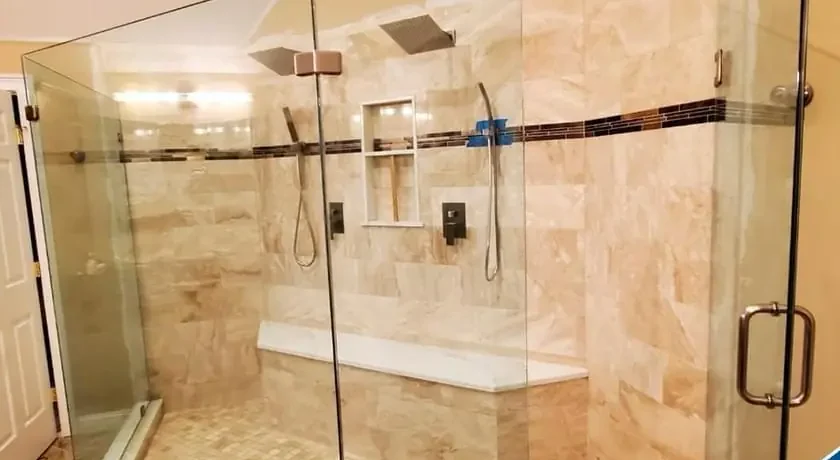
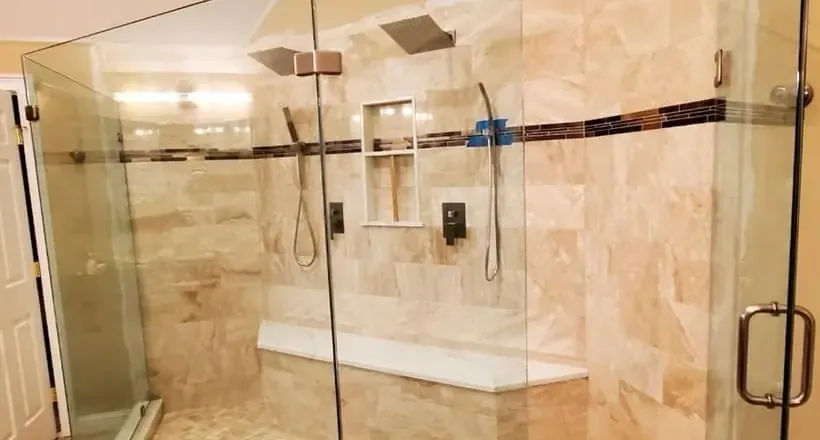
Final verification fixes: whole estimate form visible after a jump on short screens, phone-friendly tables, cleaner bathroom crop
- "Free estimate" links (header, phone bar, hero and body anchors, and arriving at /contact#estimate) scroll so
  the whole form, submit button included, sits between the header and the phone's bottom bar, also at 390x664,
  360x640 and on a 1366x768 laptop
- /service-areas town tables fit their cards at 320px; distances wrap instead of being cut off
- Blog tables with 3+ columns become labelled cards on phones (no sideways scrolling)
- Bathroom photo 05 re-cropped from the original to drop the last corner of the old banner
- Bathroom alt text matches the photos (freestanding tub, wall-mounted head); removed the outdated "logo and phone" note
- Salem, NH deck: general permit rule instead of an undocumented job-specific claim
- Hub town directory counts read "60 towns" (toggle icon drawn in CSS); owner page title keeps the brand
- Check scripts fail on an empty build and catch more licensing phrasings

Claude-Session: https://claude.ai/code/session_01Hs2iL7Ppt9jmZR8R8EwH7x

diff --git a/components/chrome-client.tsx b/components/chrome-client.tsx
@@ -23,6 +23,26 @@ function estimateTarget(): HTMLElement | null {
   return el && !/^H[1-6]$/.test(el.tagName) ? el : null;
 }
 
+/** Scrolls so the whole estimate form is on screen. Normally the card top lands under the sticky header
+ *  (html scroll-padding-top). When the card is taller than the space left between the header and the bottom
+ *  edge or the phone's fixed call/estimate bar (short viewports such as 390×664 or a 1366×768 laptop's 657px),
+ *  the form's bottom is lined up just above that bar instead, so the submit button is never covered, while
+ *  the form's top still stays below the header. */
+function jumpToEstimate(el: HTMLElement, animate = true) {
+  const pad = parseFloat(getComputedStyle(document.documentElement).scrollPaddingTop) || 0;
+  const bar = document.querySelector<HTMLElement>(".mobile-cta-bar");
+  const barTop = bar && getComputedStyle(bar).display !== "none" ? bar.getBoundingClientRect().top : window.innerHeight;
+  const bottom = Math.min(window.innerHeight, barTop) - 8;
+  const card = el.getBoundingClientRect();
+  const form = (el.querySelector("iframe") ?? el).getBoundingClientRect();
+  let delta = card.top - pad;
+  if (form.bottom - delta > bottom) delta = Math.min(form.bottom - bottom, form.top - pad);
+  const smooth = animate && !window.matchMedia("(prefers-reduced-motion: reduce)").matches;
+  window.scrollTo({ top: window.scrollY + delta, behavior: smooth ? "smooth" : "instant" });
+  const hash = `#${el.id || "estimate"}`;
+  if (location.hash !== hash) history.replaceState(null, "", hash);
+}
+
 const isCurrent = (pathname: string, href: string) => (href === "/" ? pathname === "/" : pathname === href || pathname.startsWith(`${href}/`));
 
 export function HeaderClient({ nav, services, phone, phoneHref, brand }: {
@@ -177,15 +197,40 @@ export function EstimateLink({ className = "", children, onDone }: { className?:
         const el = estimateTarget();
         if (!el) return;
         e.preventDefault();
-        const smooth = !window.matchMedia("(prefers-reduced-motion: reduce)").matches;
-        el.scrollIntoView({ behavior: smooth ? "smooth" : "auto", block: "start" });
-        const hash = `#${el.id || "estimate"}`;
-        if (location.hash !== hash) history.replaceState(null, "", hash);
+        jumpToEstimate(el);
       }}
     >
       {children}
     </Link>
   );
+}
+
+/** Plain in-page "#estimate" links (hero and body CTAs on home, hubs and town pages) get the same
+ *  fit-the-whole-form scroll as EstimateLink. Arriving with #estimate in the URL (e.g. /contact#estimate
+ *  from a page without a form) re-aligns once the page has laid out. Modifier-clicks are left alone. */
+export function EstimateJumps() {
+  const pathname = usePathname();
+  useEffect(() => {
+    const onClick = (e: MouseEvent) => {
+      if (e.defaultPrevented || e.button !== 0 || e.metaKey || e.ctrlKey || e.shiftKey || e.altKey) return;
+      if (!(e.target instanceof Element) || !e.target.closest('a[href="#estimate"]')) return;
+      const el = estimateTarget();
+      if (!el) return;
+      e.preventDefault();
+      jumpToEstimate(el);
+    };
+    document.addEventListener("click", onClick);
+    return () => document.removeEventListener("click", onClick);
+  }, []);
+  useEffect(() => {
+    if (location.hash !== "#estimate") return;
+    const t = window.setTimeout(() => {
+      const el = estimateTarget();
+      if (el) jumpToEstimate(el, false);
+    }, 80);
+    return () => window.clearTimeout(t);
+  }, [pathname]);
+  return null;
 }
 
 /** Desktop floating call button. Hidden near the top of the page and whenever an estimate form,

diff --git a/lib/projects.ts b/lib/projects.ts
@@ -137,20 +137,19 @@ export const projects: Project[] = [
     scopeHeading: "What the photos show",
     scope: [
       "Walk-in showers with large-format marble-look wall tile and frameless glass",
-      "Two neo-angle (five-sided) glass showers: one with brass fixtures beside a corner tub, one in beige stone-look tile with a built-in bench",
+      "Two neo-angle (five-sided) glass showers: one with brass fixtures beside a freestanding tub, one in beige stone-look tile with a built-in bench",
       "A tub-shower with white subway tile, a dark mosaic band and a hinged glass panel",
       "Recessed shower niches, mosaic-tile shower floors and ceiling or wall-mounted rain shower heads",
     ],
     notes: [
       "These photos come from more than one bathroom remodel. The towns are not listed, so this page does not name one.",
-      "Each photo carries our logo and phone number, added when it was first shared online.",
     ],
     stages: [{ id: "finished", label: "Finished bathrooms" }],
     photos: [
       { src: BATH(1), stage: "finished", alt: "Walk-in shower with large-format marble-look wall tile, a recessed niche, a rain shower head and frameless glass", caption: "Walk-in shower in marble-look tile with a recessed niche and frameless glass." },
       { src: BATH(2), stage: "finished", featured: "Bathrooms", alt: "Bathtub with white subway tile walls, a dark mosaic accent band, a recessed niche and a hinged glass panel", caption: "Tub-shower with white subway tile, a dark mosaic band and a hinged glass panel." },
       { src: BATH(3), stage: "finished", featured: "Bathrooms", alt: "Walk-in shower with marble-look walls, a hexagon mosaic floor, a window and a frameless glass door, beside the toilet", caption: "Walk-in shower with a hexagon mosaic floor and a frameless glass door." },
-      { src: BATH(4), stage: "finished", featured: "Bathrooms", alt: "Neo-angle frameless glass shower with brass fixtures and a ceiling rain head, next to a corner tub and a brass towel rack", caption: "Neo-angle glass shower with brass fixtures, beside a corner tub." },
+      { src: BATH(4), stage: "finished", featured: "Bathrooms", alt: "Neo-angle frameless glass shower with brass fixtures, a wall-mounted shower head and a hand shower on a slide bar, beside a freestanding tub and a brass towel warmer", caption: "Neo-angle glass shower with brass fixtures, beside a freestanding tub." },
       { src: BATH(5), stage: "finished", alt: "Neo-angle glass shower in beige stone-look tile with a built-in bench, a recessed niche and a mosaic accent band", caption: "Neo-angle shower in beige stone-look tile with a built-in bench." },
     ],
     videos: [], // the 12-second clip was a slideshow of these same photos (audit 05 PG-C3) — not shown

diff --git a/lib/posts.ts b/lib/posts.ts
@@ -1128,7 +1128,7 @@ export const posts: Post[] = [
       },
       {
         id: "nh", h: "How do permits work in New Hampshire?", blocks: [
-          { p: "New Hampshire has no statewide contractor license. Building permits come from each town's building department under the state building code, electricians and plumbers are licensed by the state, and the federal EPA renovation rule governs lead-safe work on pre-1978 homes. Requirements and fees vary by town, so check with the local building department; for example, our [deck work in Salem, NH](/services/decks/salem-nh) goes through Salem's process." },
+          { p: "New Hampshire has no statewide contractor license. Building permits come from each town's building department under the state building code, electricians and plumbers are licensed by the state, and the federal EPA renovation rule governs lead-safe work on pre-1978 homes. Requirements and fees vary by town, so check with the town's building department." },
         ],
       },
     ],
@@ -1312,7 +1312,7 @@ export const posts: Post[] = [
       },
       {
         id: "example", h: "What did our Salem, NH pool deck involve?", blocks: [
-          { p: "The deck at the top of this guide wraps an above-ground pool in Salem, New Hampshire. The photos on the [project page](/projects/pool-deck-salem-nh) show pressure-treated joists framed around the pool, gray decking angled to follow the pool's edge, white railings and stairs. That project is in New Hampshire, where the permit comes from the town's building department; see our [deck work in Salem, NH](/services/decks/salem-nh)." },
+          { p: "The deck at the top of this guide wraps an above-ground pool in Salem, New Hampshire. The photos on the [project page](/projects/pool-deck-salem-nh) show pressure-treated joists framed around the pool, gray decking angled to follow the pool's edge, white railings and stairs. In New Hampshire, deck permits come from each town's building department; see our [deck work in Salem, NH](/services/decks/salem-nh)." },
           { p: "In Massachusetts we build decks from our base in [Northborough](/services/decks/northborough) and across our service area. A Northborough client shared this about their deck and small addition:" },
           { testimonial: "Priya S." },
           { p: "See our [deck design and construction service](/services/decks) for what we build." },

diff --git a/lib/services.ts b/lib/services.ts
@@ -77,7 +77,7 @@ const P = {
   bath01: { src: BATH(1), ...BATHS, stage: "finished", alt: "Walk-in shower with large marble-look wall tile, a frameless glass panel, a built-in niche and a window", caption: "Walk-in shower with marble-look tile and frameless glass" },
   bath02: { src: BATH(2), ...BATHS, stage: "finished", alt: "Bathtub with a fixed glass panel, white subway tile, a mosaic accent band and a tiled niche", caption: "Tub with a glass panel and subway tile with a mosaic accent band" },
   bath03: { src: BATH(3), ...BATHS, stage: "finished", alt: "Walk-in shower with marble-look tile walls, a hexagon mosaic floor and a hinged glass door, next to a toilet", caption: "Shower with marble-look walls and a hexagon mosaic floor" },
-  bath04: { src: BATH(4), ...BATHS, stage: "finished", alt: "Corner glass shower with brass fixtures next to a corner tub and a brass towel rail", caption: "Corner glass shower with brass fixtures beside a soaking tub" },
+  bath04: { src: BATH(4), ...BATHS, stage: "finished", alt: "Corner glass shower with brass fixtures next to a freestanding tub and a brass towel warmer", caption: "Corner glass shower with brass fixtures beside a soaking tub" },
   sal01: { src: SAL(1), ...SALEM, stage: "progress", alt: "Corner of a deck with gray decking and a fascia board over the pressure-treated frame, beside an above-ground pool", caption: "Decking and fascia going on over the pressure-treated frame" },
   sal02: { src: SAL(2), ...SALEM, stage: "finished", alt: "Deck with gray decking, a contrasting border and white railings wrapped around an above-ground pool, on a pressure-treated frame", caption: "Gray decking and white railings wrapped around the above-ground pool" },
   sal03: { src: SAL(3), ...SALEM, stage: "progress", alt: "Pressure-treated posts and beams supporting a deck frame beside an above-ground pool", caption: "Posts and beams supporting the deck frame beside the pool" },

diff --git a/app/services/[slug]/page.tsx b/app/services/[slug]/page.tsx
@@ -186,8 +186,8 @@ export default async function ServiceHub({ params }: { params: Promise<{ slug: s
           </div>
           {/* Estimate contract: id="estimate" + data-estimate-form on the section that wraps <LeadForm />; no scroll-mt-*
               (html scroll-padding-top already clears the sticky header, V5.2); not sticky, it sits in the hero. The card
-              header is compact (one-line note) so the whole form fits after a "Free estimate" jump: 104px scroll-padding
-              + ~80px card header + 473px form ≤ 657px at 1366×768 and ≤ 664px at 390×664. */}
+              header is compact (one-line note); on viewports too short for the whole card, the "Free estimate" jump
+              (jumpToEstimate in chrome-client.tsx) lines the form's bottom up above the phone's bottom bar instead. */}
           <section id="estimate" data-estimate-form aria-labelledby="estimate-h" className="rounded-2xl bg-white text-ink p-4 sm:p-5 lg:p-4 shadow-card ring-1 ring-black/5">
             <h2 id="estimate-h" className="text-xl font-extrabold text-navy">Request a free estimate</h2>
             <p className="mt-1 text-sm text-ink/75">

diff --git a/components/chrome.tsx b/components/chrome.tsx
@@ -6,7 +6,7 @@ import Image from "next/image";
 import { site, nav, services, serviceArea } from "@/lib/site";
 import { credentialLine, hasHic, hasCsl } from "@/lib/credentials";
 import { displayAddress } from "@/lib/address";
-import { HeaderClient, FloatingCall, EstimateLink } from "./chrome-client";
+import { HeaderClient, FloatingCall, EstimateLink, EstimateJumps } from "./chrome-client";
 import { PhoneIcon, MailIcon } from "./chrome-icons";
 
 // Registration/license numbers render only once the owner supplies them — never a placeholder.
@@ -49,6 +49,7 @@ export function FloatingCTA() {
   return (
     <>
       <FloatingCall phone={site.phone} phoneHref={site.phoneHref} />
+      <EstimateJumps />
       {/* Mobile bottom bar (hidden while the mobile menu is open, see html.menu-open in globals.css) */}
       <nav aria-label="Quick contact" className="mobile-cta-bar md:hidden fixed bottom-0 inset-x-0 z-50 grid grid-cols-2 gap-px bg-white/10 pb-[env(safe-area-inset-bottom)]">
         <a href={site.phoneHref} className="flex items-center justify-center gap-2 min-h-14 font-bold text-white bg-navy"><PhoneIcon /> Call now</a>

diff --git a/app/services/[slug]/[city]/page.tsx b/app/services/[slug]/[city]/page.tsx
@@ -89,8 +89,8 @@ export default async function ServiceTownPage({ params }: Props) {
 
           {/* Estimate contract: id="estimate" + data-estimate-form on the section that wraps <LeadForm />; no scroll-mt-*
               (html scroll-padding-top already clears the sticky header, V5.2); not sticky, it sits in the hero. Compact
-              card header so the whole form fits after a "Free estimate" jump: 104px scroll-padding + ~76px card header
-              + 473px form ≤ 657px (1366×768 laptop) and ≤ 664px (390×664 phone). */}
+              card header; on viewports too short for the whole card, the "Free estimate" jump (jumpToEstimate in
+              chrome-client.tsx) lines the form's bottom up above the phone's bottom bar instead. */}
           <section id="estimate" data-estimate-form aria-labelledby="estimate-h" className="min-w-0 lg:col-start-2 lg:row-start-1 lg:row-span-2 rounded-2xl bg-white text-ink p-4 sm:p-5 lg:p-4 shadow-card ring-1 ring-black/5">
             <h2 id="estimate-h" className="text-xl font-extrabold text-navy">{k.estimate.heading}</h2>
             <p className="mt-1 text-sm text-ink/75">

diff --git a/app/blog/_lib/content.tsx b/app/blog/_lib/content.tsx
@@ -107,12 +107,12 @@ export function PostBlock({ b }: { b: Block }) {
     );
   if ("table" in b) {
     const t = b.table;
-    // Tables with more than 3 columns (the cost tables) turn into one labelled card per row below 640px
-    // (blog.css `table.stack`), so the cost columns are visible without sideways scrolling (V5.5). The explicit
+    // Tables with 3 or more columns turn into one labelled card per row below 640px (blog.css `table.stack`),
+    // so every column is readable on a phone without sideways scrolling (V5.5). The explicit
     // ARIA roles keep table semantics for screen readers when CSS changes the display of table elements; the
     // per-cell labels are visual only (aria-hidden) because the column headers already name each cell.
     // The wrapper is a named, focusable region so keyboard users can scroll it if it ever overflows.
-    const stack = t.head.length > 3;
+    const stack = t.head.length >= 3;
     return (
       <div className="table-wrap" tabIndex={0} role="region" aria-label={t.caption}>
         <table className={stack ? "stack" : undefined} role="table">

diff --git a/app/globals.css b/app/globals.css
@@ -145,12 +145,15 @@
   .svc-dir td a:hover { color: var(--color-navy); }
   @media (max-width: 767px) {
     .svc-dir thead { position: absolute; width: 1px; height: 1px; overflow: hidden; clip: rect(0 0 0 0); }
-    .svc-dir tbody tr { display: grid; grid-template-columns: 1fr auto; padding: .35rem 0; }
+    .svc-dir table { table-layout: fixed; } /* the table box stays at its card's width; rows are grids below */
+    .svc-dir tbody tr { display: grid; grid-template-columns: minmax(0, 1fr) auto; padding: .35rem 0; }
     .svc-dir tbody th { padding: .5rem .75rem .1rem; }
     .svc-dir tbody td { padding: .1rem .75rem .5rem; }
     .svc-dir tbody td.dist { text-align: right; padding-top: .5rem; white-space: nowrap; }
     .svc-dir tbody td.links { grid-column: 1 / -1; }
   }
+  /* 320px phones: "about 30 mi northwest" may wrap rather than push the row past its card. */
+  @media (max-width: 359.98px) { .svc-dir tbody td.dist { white-space: normal; max-width: 9.5rem; } }
 }
 
 /* ---------- keyframes ---------- */

diff --git a/components/ServiceTownDirectory.tsx b/components/ServiceTownDirectory.tsx
@@ -45,7 +45,7 @@ export default function ServiceTownDirectory({ slug, label, className = "" }: { 
               <summary className="flex cursor-pointer list-none items-center justify-between gap-3 px-4 py-3 font-bold text-navy [&::-webkit-details-marker]:hidden">
                 <span>{g.county}, {state}</span>
                 <span className="flex items-center gap-2 text-sm font-semibold text-ink/70">
-                  {g.towns.length}<span aria-hidden="true" className="text-blue text-lg transition group-open:rotate-45">+</span>
+                  {g.towns.length} {g.towns.length === 1 ? "town" : "towns"}<span aria-hidden="true" className="text-blue text-lg transition group-open:rotate-45 after:content-['+']" />
                 </span>
               </summary>
               <ul role="list" className="grid grid-cols-2 gap-x-4 px-4 pb-2 text-sm">

diff --git a/app/blog/blog.css b/app/blog/blog.css
@@ -24,7 +24,7 @@
 .post ol.steps strong { color: #24215a; }
 
 /* The wrapper is a focusable, named region (tabindex=0; the global focus ring applies) so keyboard users can
-   scroll it if a table ever overflows. Cost tables (table.stack, more than 3 columns) become one card per row
+   scroll it if a table ever overflows. Tables with 3+ columns (table.stack) become one card per row
    below 640px, so no column is hidden off-screen on phones (verification V5.5). */
 .post .table-wrap { position: relative; margin: 1.2rem 0 1.6rem; overflow-x: auto; -webkit-overflow-scrolling: touch; border-radius: .5rem; }
 .post table { width: 100%; border-collapse: collapse; font-size: 15.5px; line-height: 1.5; background: #fff; }

diff --git a/app/about/ernando-nunes/page.tsx b/app/about/ernando-nunes/page.tsx
@@ -28,7 +28,8 @@ const ROLE = String(ownerNode().jobTitle);
 const LEAD = `${NAME} is the owner of ${site.name}, a home remodeling contractor based in Northborough, Massachusetts. He founded the company in ${site.founded} and has ${site.experience}+ years of hands-on construction experience.`;
 
 export const metadata = pageMeta({
-  title: `${NAME}, ${ROLE}`,
+  title: `${NAME}, ${ROLE} | Waterfront Construction`, // keeps the company in the title (61 chars)
+  absoluteTitle: true,
   description: `${NAME} founded ${site.name} in Northborough, MA, in ${site.founded} and has ${site.experience}+ years of hands-on construction experience.`,
   path: OWNER_PAGE,
 });
